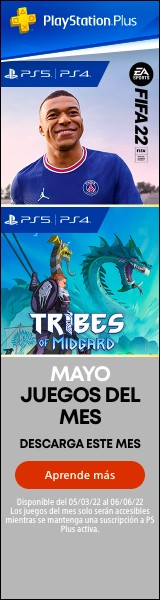
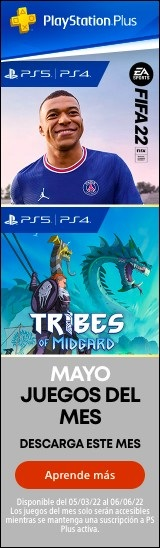
modificaciones en busqueda y home

diff --git a/unicen-visualizacion/TP1/home.html b/unicen-visualizacion/TP1/home.html
@@ -24,36 +24,38 @@
                 <li>Accion</li>
                 <li>Puzzle</li>
             </div>
-    
+
             <div class="buscador">
                 <input type="text" class="input-buscador">
             </div>
             <div class="iconos">
                 <i class="iconUser fa-solid fa-user"></i>
             </div>
-            
+
 
         </ul>
-     
-   
-        
+
+
+
     </nav>
 
- 
+
 
     <section class="contenedorSeccion">
         <div>
             <img class="juegoPrincipal" src="img/juegoSimpsons.jpg" alt="Imagen alternativa en PNG">
         </div>
-        
-        <div class="tituloCat"> <h1>Categorias</h1></div>
+
+        <div class="tituloCat">
+            <h1>Categorias</h1>
+        </div>
         <div class="contenedorCategorias">
 
             <div class="categoria">
                 <iframe class="imgCat bg-gris-oscuro" src="img/icon-cat-board.svg" scrolling="no">
                     <img src="img/icon-cat-board.svg" alt="Imagen alternativa en PNG">
                   </iframe>
-                  <p>Juegos de mesa</p>
+                <p>Juegos de mesa</p>
             </div>
 
             <div class="categoria">
@@ -100,17 +102,22 @@
                 <i id="arrow-prev" class="fas fa-angle-left"></i>
             </div>
 
-            <div class="juegos1 slide"  id="slide-0">
+            <div class="juegos1 slide" id="slide-0">
                 <img class="imgJuego" src="img/juego1.jfif" alt="juego1">
                 <div class="overlay">
-                    <h3>Nombre </h3>
-                    <p> PLAY! </p>
+                    <h3>Trophy Challenge </h3>
+                    <button class="bg-celeste botonPlay"><i class="play fa-solid fa-play"></i>Jugar</button>
                 </div>
             </div>
-            <div class="juegos1 slide"  id="slide-1">
+            <div class="juegos1 slide" id="slide-1">
                 <img class="imgJuego" src="img/juego2.jfif" alt="juego1">
+                <div class="overlay">
+                    <h3>Trophy Challenge </h3>
+                    <button class="bg-celeste botonPlay"><i class="play fa-solid fa-play"></i>Jugar</button>
+                </div>
             </div>
-            <div class="juegos1 slide"  id="slide-2">
+
+            <div class="juegos1 slide" id="slide-2">
                 <img class="imgJuego" src="img/juego3.jfif" alt="juego1">
             </div>
             <div class="juegos1 slide" id="slide-3">
@@ -119,13 +126,13 @@
             <div class="juegos1 slide" id="slide-4">
                 <img class="imgJuego" src="img/juego5.jfif" alt="juego1">
             </div>
-            <div class="juegos1 slide"  id="slide-5">
+            <div class="juegos1 slide" id="slide-5">
                 <img class="imgJuego" src="img/juego1.jfif" alt="juego1">
             </div>
-            <div class="juegos1 slide"  id="slide-6">
+            <div class="juegos1 slide" id="slide-6">
                 <img class="imgJuego" src="img/juego2.jfif" alt="juego1">
             </div>
-            <div class="juegos1 slide"  id="slide-7">
+            <div class="juegos1 slide" id="slide-7">
                 <img class="imgJuego" src="img/juego3.jfif" alt="juego1">
             </div>
             <div class="juegos1 slide" id="slide-8">
@@ -167,8 +174,10 @@
             </div>
         </div>
 
-        <div class="tituloCat"> <h1>Lanzamientos </h1></div>
-        
+        <div class="tituloCat">
+            <h1>Lanzamientos </h1>
+        </div>
+
 
 
         <div class="contenedorJuegosGrandes">
@@ -185,10 +194,10 @@
             <div class="juegos2">
                 <img class="imgJuego2" src="img/juego4.jfif" alt="juego1">
             </div>
-            
-           
 
-          
+
+
+
         </div>
 
 
@@ -198,7 +207,7 @@
 </body>
 <footer class="bg-violeta4">
     <div class="enlacesFooter">
-        
+
         <ul class="color-blanco">
             <a class="subtitulosFooter">Empresa</a>
             <li>Condiciones de uso</li>
@@ -223,11 +232,11 @@
         <div class="logoFooter">
             <img src="img/logo-juegos.jpeg" alt="">
         </div>
-  
+
         <div class="redesSociales">
             <div>
                 <i class="icono color-blanco fa-brands fa-instagram"></i>
-            </div> 
+            </div>
             <div>
                 <i class="icono color-blanco fa-brands fa-facebook-square"></i>
             </div>
@@ -235,9 +244,10 @@
                 <i class="icono color-blanco fa-brands fa-youtube-square"></i>
             </div>
         </div>
-  
-     
+
+
     </div>
 </footer>
 <script src="js/main.js"></script>
+
 </html>

diff --git a/unicen-visualizacion/TP1/css/style.css b/unicen-visualizacion/TP1/css/style.css
@@ -171,7 +171,8 @@ h2 {
     display: flex;
     justify-content: center;
     border-bottom: 2px solid rgba(83, 14, 83, 1);
-    margin: 0px 45px 0px 45px;
+    margin: 10px 40px 10px 40px;
+    padding: 10px;
 }
 
 
@@ -233,6 +234,11 @@ h2 {
     left: 50%;
     transform: translate(-50%, -50%);
     color: white;
+}
+
+.overlay h3 {
+    text-shadow: 1px 6px 4px rgba(59, 59, 59, 0.692);
+    margin-bottom: 10px;
 }
 
 .juegos1:hover .overlay {
@@ -395,7 +401,7 @@ footer a {
 
 .categoria-sm {
     display: flex;
-    border-radius: 30px;
+    border-radius: 5px;
     box-shadow: 1px 3px 3px rgba(59, 59, 59, 0.692);
     align-items: center;
     padding-left: 10px;
@@ -422,13 +428,10 @@ footer a {
 .contenedorSeccionBusqueda {
     display: grid;
     grid-template-columns: 4fr 9fr 3fr;
-    grid-template-rows: 1fr;
     margin-bottom: 50px;
 }
 
 .sub-menu-categorias {
-    display: block;
-    background-color: #FFC700;
     margin: 20px;
     justify-items: center;
     justify-content: center;
@@ -454,7 +457,7 @@ footer a {
     grid-template-columns: 1fr 1fr 1fr;
     grid-template-rows: 220px 220px 220px;
     gap: 20px;
-    margin: 20px;
+    margin: 40px 20px 20px 20px;
 }
 
 .juegoBusqueda {
@@ -463,9 +466,13 @@ footer a {
     box-shadow: 1px 6px 4px rgba(59, 59, 59, 0.692);
 }
 
-.contenedorPublicidad {
+.contenedor-publicidad {
     margin: 20px;
-    background-color: #FFC700;
+}
+
+.img-publi {
+    width: 200px;
+    margin: 20px;
 }
 
 
@@ -616,6 +623,7 @@ footer a {
     border: 0px;
     justify-content: center;
     align-items: center;
+    box-shadow: 1px 2px 2px rgba(196, 195, 195, 0.692);
 }
 
 .divBotonPlay {

diff --git a/unicen-visualizacion/TP1/buscador.html b/unicen-visualizacion/TP1/buscador.html
@@ -146,8 +146,8 @@
                 </div>
 
             </div>
-            <div class="contenedorPublicidad">
-                <img class="imgJuegoCategoria" src="img/publi.jpg" alt="">
+            <div class="contenedor-publicidad">
+                <img class="img-publi" src="img/publi.jpg" alt="">
             </div>
 
 
